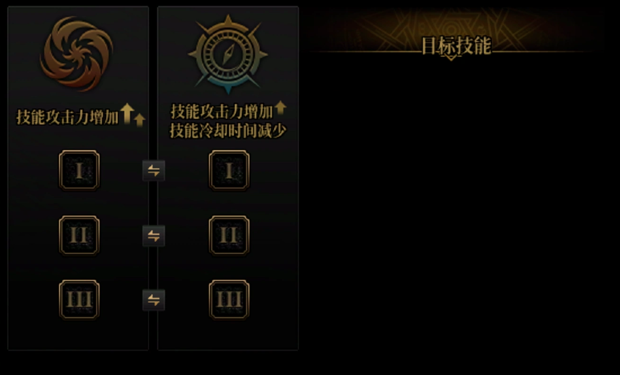
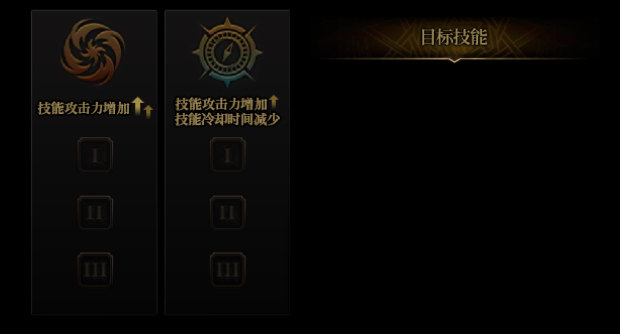
dev

diff --git a/frontend/src/pages/Character/Skill/components/SkillReinforce/index.tsx b/frontend/src/pages/Character/Skill/components/SkillReinforce/index.tsx
@@ -22,68 +22,156 @@ export default defineComponent({
   },
   setup(props) {
     const lvInfo = useVModel(props, 'lvInfo')
-    const skills = computed(() =>
-      props.skills.filter((a) => a.hasReinforce && (!lvInfo.value[a.id]?.reinforce || lvInfo.value[a.id]?.reinforce == 0)).sort((a, b) => a.learnLv - b.learnLv),
-    )
 
-    const reinforce = (type: number, id: number) => {
-      return computed({
+    const skills = (index: number = 0) => {
+      index -= 1
+      const reinforceList = Object.keys(lvInfo.value).filter(
+        (a) => !!lvInfo.value[a].reinforce && lvInfo.value[a].reinforce > 0,
+      )
+      const currentReinforceSkill = index >= 0 ? reinforceList[index] : undefined
+      return computed(() =>
+        props.skills
+          .filter(
+            (a) =>
+              a.id.toString() === currentReinforceSkill ||
+              (a.hasReinforce &&
+                (!lvInfo.value[a.id]?.reinforce || lvInfo.value[a.id]?.reinforce == 0) && lvInfo.value[a.id].lv > 0),
+          )
+          .sort((a, b) => a.learnLv - b.learnLv),
+      )
+    }
+
+    const itemChecked = (index: number, reinforce: number) => {
+      index -= 1
+      return computed<string | undefined>({
         get() {
-          return lvInfo.value[id].reinforce
+          const reinforceList = Object.keys(lvInfo.value).filter(
+            (a) => !!lvInfo.value[a].reinforce && lvInfo.value[a].reinforce > 0,
+          )
+          const currentReinforceSkill = reinforceList[index]
+          const currentReinforce = lvInfo.value[currentReinforceSkill]?.reinforce
+          console.log(currentReinforce, reinforce)
+          return currentReinforce == reinforce ? currentReinforceSkill : undefined
         },
-        set(value) {},
+        set(value: string | undefined) {
+          if (!value) return
+          const reinforceList = Object.keys(lvInfo.value).filter(
+            (a) => !!lvInfo.value[a].reinforce && lvInfo.value[a].reinforce > 0,
+          )
+          const currentReinforceSkill = reinforceList[index]
+          currentReinforceSkill && (lvInfo.value[currentReinforceSkill].reinforce = 0)
+          if (!value) {
+            currentReinforceSkill && (lvInfo.value[currentReinforceSkill].reinforce = 0)
+          } else {
+            lvInfo.value[value].reinforce = reinforce
+          }
+        },
       })
+    }
+
+    const exchange = (index: number) => {
+      const skill = itemChecked(index, 1).value || itemChecked(index, 2).value
+      if (!skill) return
+      lvInfo.value[skill].reinforce = lvInfo.value[skill].reinforce == 1 ? 2 : 1
     }
 
     return () => (
       <>
-        <div class="flex pt-10px bg-black">
-          <div class="skill-reinforce relative">
-            <div class="absolute left-55px top-150px w-250px flex flex-col gap-25px">
-              {renderList(3, (index) => (
-                <>
-                  <div class="w-180px h-40px flex items-center justify-between pl-10px pr-10px">
-                    <CaclIconSelect class="!mt-3px !ml--1px !bg-white/0 !border-white/0" columnNum={4} >
-                      {renderList(skills.value, (item) => (
-                        <>
-                        <CalcOption value={item.id} key={item.id}>
-                          <img  src={getImageURL(item.icon)} alt={item.name} />
-                        </CalcOption>
-                        </>
-                      ))}
-                    </CaclIconSelect>
-                    <CalcButton icon="exchange"></CalcButton>
-                    <CaclIconSelect class="!mt-3px !bg-white/0 !border-white/0" columnNum={4} >
-                      {renderList(skills.value, (item) => (
-                        <>
-                        <CalcOption value={item.id} key={item.id}>
-                          <img  src={getImageURL(item.icon)} alt={item.name} />
-                        </CalcOption>
-                        </>
-                      ))}
-                      </CaclIconSelect>
-                  </div>
-                </>
-              ))}
-            </div>
-            <div class="absolute top-80px left-300px w-320px h-270px flex flex-wrap content-start gap-15px py-5px px-30px box-border">
-              {renderList(skills.value, (item) => (
-                <div
-                  key={item.id}
-                  class="w-28px h-28px border-1px border-solid border-#3C2E1D rounded-4px"
-                >
-                  <img src={getImageURL(item.icon)} alt={item.name} />
+        {lvInfo.value && Object.keys(lvInfo.value).length > 0 ? (
+          <div class="flex pt-10px bg-black">
+            <div class="skill-reinforce relative">
+              <div class="absolute left-76px top-137px w-250px flex flex-col gap-21.5px">
+                {renderList(3, (index) => (
+                  <>
+                    <div class="w-169px h-36px flex items-center justify-between">
+                      <div class="m-4px w-28px h-28px">
+                        <CaclIconSelect
+                          v-model:modelValue={itemChecked(index, 1).value}
+                          class="!bg-white/0 !border-white/0 m-4px"
+                          columnNum={4}
+                        >
+                          {renderList(skills(index).value, (item) => (
+                            <>
+                              <CalcOption value={item.id.toString()}>
+                                <img src={getImageURL(item.icon)} alt={item.name} />
+                              </CalcOption>
+                            </>
+                          ))}
+                        </CaclIconSelect>
+                      </div>
+                      <CalcButton icon="exchange" onClick={() => exchange(index)}></CalcButton>
+                      <div class="m-4px w-28px h-28px">
+                        <CaclIconSelect
+                          v-model:modelValue={itemChecked(index, 2).value}
+                          class=" !bg-white/0 !border-white/0"
+                          columnNum={4}
+                        >
+                          {renderList(skills(index).value, (item) => (
+                            <>
+                              <CalcOption value={item.id.toString()}>
+                                <img src={getImageURL(item.icon)} alt={item.name} />
+                              </CalcOption>
+                            </>
+                          ))}
+                        </CaclIconSelect>
+                      </div>
+                    </div>
+                  </>
+                ))}
+              </div>
+              <div class="absolute top-70px left-310px w-320px h-270px py-5px px-30px box-border flex flex-col">
+                <div class="flex flex-wrap gap-10px content-start h-120px overflow-y-auto mb-10px">
+                  {renderList(skills().value, (item) => (
+                    <div
+                      key={item.id}
+                      class="w-[28px] h-[28px] rounded-[1px] border-[1px] border-solid border-[#6d4e2b] bg-[linear-gradient(180deg,_#191919_0%,_#000000_100%)] [box-shadow:0px_4px_4px_#00000040_inset] rounded-4px"
+                    >
+                      <img src={getImageURL(item.icon)} alt={item.name} />
+                    </div>
+                  ))}
+                  {renderList(36 - skills().value.length, (item) => (
+                    <div
+                      key={item}
+                      class="w-[28px] h-[28px] rounded-[1px] border-[1px] border-solid border-[#6d4e2b] bg-[linear-gradient(180deg,_#191919_0%,_#000000_100%)] [box-shadow:0px_4px_4px_#00000040_inset] rounded-4px"
+                    ></div>
+                  ))}
                 </div>
-              ))}
-              {renderList(36 - skills.value.length, (item) => (
-                <div
-                  key={item}
-                  class="w-28px h-28px border-1px border-solid border-#3C2E1D rounded-4px bg-#0B0D0A"
-                ></div>
-              ))}
+                <div class="flex flex-col gap-10px">
+                  {renderList(
+                    Object.keys(lvInfo.value).filter(
+                      (a) => !!lvInfo.value[a].reinforce && lvInfo.value[a].reinforce > 0,
+                    ),
+                    (index) => {
+                      const skill = props.skills.find((a) => a.id.toString() === index)
+                      let tooltip = ''
+                      if (skill) {
+                        if (lvInfo.value[skill.id.toString()].reinforce == 1) {
+                          tooltip = `技能攻击力   +${skill.learnLv < 35 ? '60' : 55}%`
+                        }
+                        if (lvInfo.value[skill.id.toString()].reinforce == 2) {
+                          tooltip = `技能攻击力 +${skill.learnLv < 35 ? '43' : 38}%<br/>技能冷却时间 -15%`
+                        }
+                      }
+
+                      return skill ? (
+                        <div class="flex gap-5px items-center">
+                          <div class="w-[28px] h-[28px] rounded-[1px] border-[1px] border-solid border-[#6d4e2b] bg-[linear-gradient(180deg,_#191919_0%,_#000000_100%)] [box-shadow:0px_4px_4px_#00000040_inset] rounded-4px">
+                            <img src={getImageURL(skill?.icon)} alt={skill.name} />
+                          </div>
+                          <div class="text-#947E4E" v-html={tooltip}></div>
+                        </div>
+                      ) : (
+                        <></>
+                      )
+                    },
+                  )}
+                </div>
+              </div>
             </div>
           </div>
-        </div>
+        ) : (
+          <></>
+        )}
       </>
     )
   },

diff --git a/frontend/src/pages/Character/Skill/components/SkillVP/index.tsx b/frontend/src/pages/Character/Skill/components/SkillVP/index.tsx
@@ -55,7 +55,7 @@ export default defineComponent({
       <>
         <div class="h-auto py-2 flex flex-col bg-#080808 box-content">
           {renderList(skills.value, (item) => (
-            <div class="h-140px flex items-center vp">
+            <div class="h-140px flex items-center vp pl-26px pr-16px box-content">
               <div class="w-30px text-center text-#816f4c">{item.learnLv}</div>
               <div class="w-200px flex gap-5px items-center">
                 <div class="border-1px border-solid border-#3F382E rounded-4px w-28px h-28px">
@@ -65,7 +65,7 @@ export default defineComponent({
               </div>
               {renderList(2, (index) => (
                 <div
-                  class="flex justify-center vp-item ml-5px"
+                  class={["flex justify-center vp-item ", index == 1 ? 'ml-auto' : 'ml-2px']}
                   onClick={() => {
                     itemChecked(item.id.toString(), index).value = !itemChecked(
                       item.id.toString(),

diff --git a/frontend/src/components/calc/tabs/index.vue b/frontend/src/components/calc/tabs/index.vue
@@ -69,8 +69,9 @@ export default defineComponent({
   display: flex;
   list-style: none;
   align-items: flex-end;
-  border-bottom: 1px solid #4f4838;
+  border-bottom: 1px solid rgba(255, 255, 255, 0.1);
   width: 100%;
+  height: 25px;
 
   font-size: 14px;
 
@@ -97,12 +98,17 @@ export default defineComponent({
   .i-tab {
     // font-size: 12px;
     margin-left: 1px;
-
-    width: 120px;
+    width: fit-content;
+    padding:0px 10px;
+    padding-bottom: 2px;
     height: 20px;
-    line-height: 20px;
     text-align: center;
     text-decoration: none;
+    display: flex;
+    align-items: end;
+    box-sizing: border-box;
+
+    text-shadow: none;
 
     &:visited {
       color: currentColor;
@@ -119,8 +125,10 @@ export default defineComponent({
     }
 
     &.active {
+      margin-bottom: -1px;
       background: linear-gradient(#574d38, #25221d);
       border-image: url('@/assets/img/control/active_top.png') 1 fill stretch;
+      height: 22px;
       // color: #ffb400;
     }
   }

diff --git a/frontend/src/pages/Character/Skill/index.vue b/frontend/src/pages/Character/Skill/index.vue
@@ -39,8 +39,8 @@
         ></SkillTree>
       </div>
       <div v-if="tab === 1" class="flex flex-col overflow-y-hidden h-full">
-                <SkillReinforce
-        class="flex-1"
+        <SkillReinforce
+          class="flex-1"
           :skills="infoStore.skills"
           v-model:lvInfo="configStore.config.skills"
           v-model:bindAwake="configStore.config.bindAwake"

diff --git a/frontend/src/pages/Character/Skill/components/SkillReinforce/style.scss b/frontend/src/pages/Character/Skill/components/SkillReinforce/style.scss
@@ -1,6 +1,6 @@
 .skill-reinforce {
   width: 620px;
-  height: 375px;
+  height: 334px;
   background-image: url('./img/bg.png');
   background-size: 100% 100%;
   background-color: black;

diff --git a/backend/core/basic/character.py b/backend/core/basic/character.py
@@ -557,6 +557,10 @@ class Character(CharacterProperty):
             skill = self.GetSkillByID(key)
             if skill is not None:
                 skill.lv += skills[key].get('lv', 0)
+                if skill.hasReinforce:
+                    skill.reinforce = skills[key].get('reinforce', 0)
+                if skill.hasVP:
+                    skill.vp = skills[key].get('vp', 0)
         pass
 
     def load_skills(self) -> None:

diff --git a/backend/core/basic/skill.py b/backend/core/basic/skill.py
@@ -212,6 +212,7 @@ class ActiveSkill(Skill):
 
     def skillInfo(self, mode: str | None = None):
         basic = deepcopy(self)
+        basic.setReinforce()
         if mode is not None:
             basic.currentMode = mode
             basic.setMode(mode)
